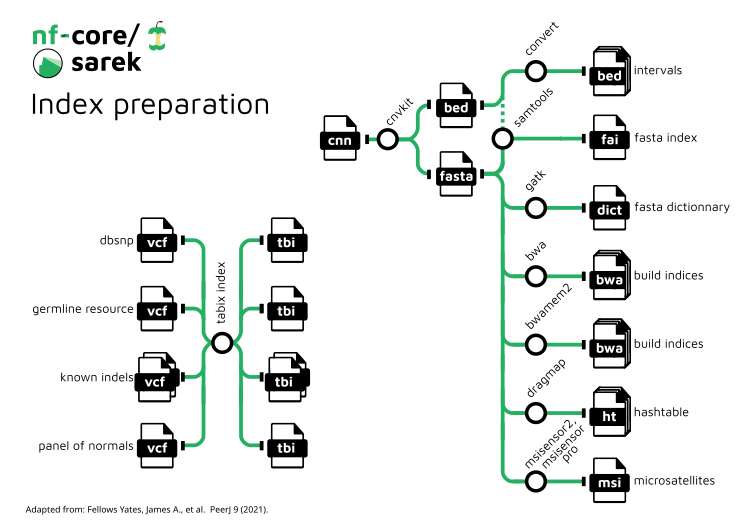
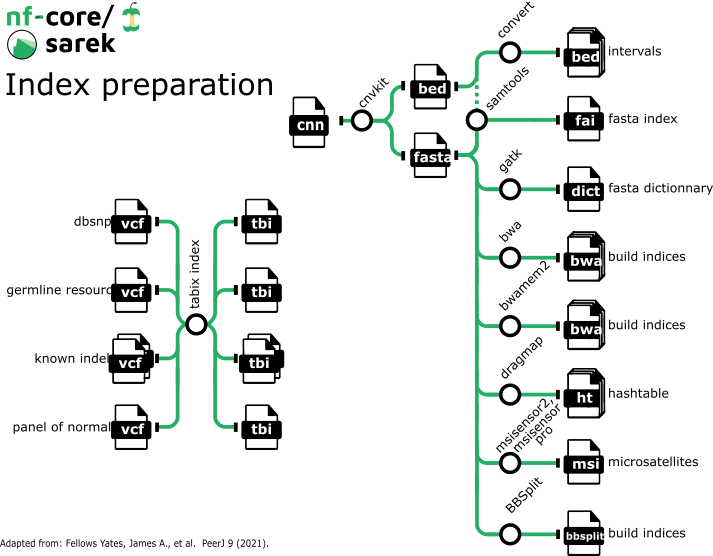
add bbsplit to subway map (#2005)
Updating metromap again. Readme was already update previously
## PR checklist

- [ ] This comment contains a description of changes (with reason).
- [ ] If you've fixed a bug or added code that should be tested, add
tests!
- [ ] If you've added a new tool - have you followed the pipeline
conventions in the [contribution
docs](https://github.com/nf-core/sarek/tree/master/.github/CONTRIBUTING.md)
- [ ] If necessary, also make a PR on the nf-core/sarek _branch_ on the
[nf-core/test-datasets](https://github.com/nf-core/test-datasets)
repository.
- [ ] Make sure your code lints (`nf-core pipelines lint`).
- [ ] Ensure the test suite passes (`nextflow run . -profile test,docker
--outdir <OUTDIR>`).
- [ ] Check for unexpected warnings in debug mode (`nextflow run .
-profile debug,test,docker --outdir <OUTDIR>`).
- [ ] Usage Documentation in `docs/usage.md` is updated.
- [ ] Output Documentation in `docs/output.md` is updated.
- [ ] `CHANGELOG.md` is updated.
- [ ] `README.md` is updated (including new tool citations and
authors/contributors).

diff --git a/CHANGELOG.md b/CHANGELOG.md
@@ -43,7 +43,7 @@ and this project adheres to [Semantic Versioning](https://semver.org/spec/v2.0.0
 - [1982](https://github.com/nf-core/sarek/pull/1982) - Update ensemblvep modules to 115.1
 - [1988](https://github.com/nf-core/sarek/pull/1988) - Update manta modules to latest build
 - [1993](https://github.com/nf-core/sarek/pull/1993) - Update snpeff modules to 5.3.0a and ensemblvep modules to 115.2
-- [2003](https://github.com/nf-core/sarek/pull/2003) - Update subway map to clarify post-variantcalling processing options
+- [2003](https://github.com/nf-core/sarek/pull/2003),[2005](https://github.com/nf-core/sarek/pull/2005) - Update subway map to clarify post-variantcalling processing options, and add BBSplit
 - [2009](https://github.com/nf-core/sarek/pull/2009) - Update multiqc module to 1.31
 
 ### Fixed
